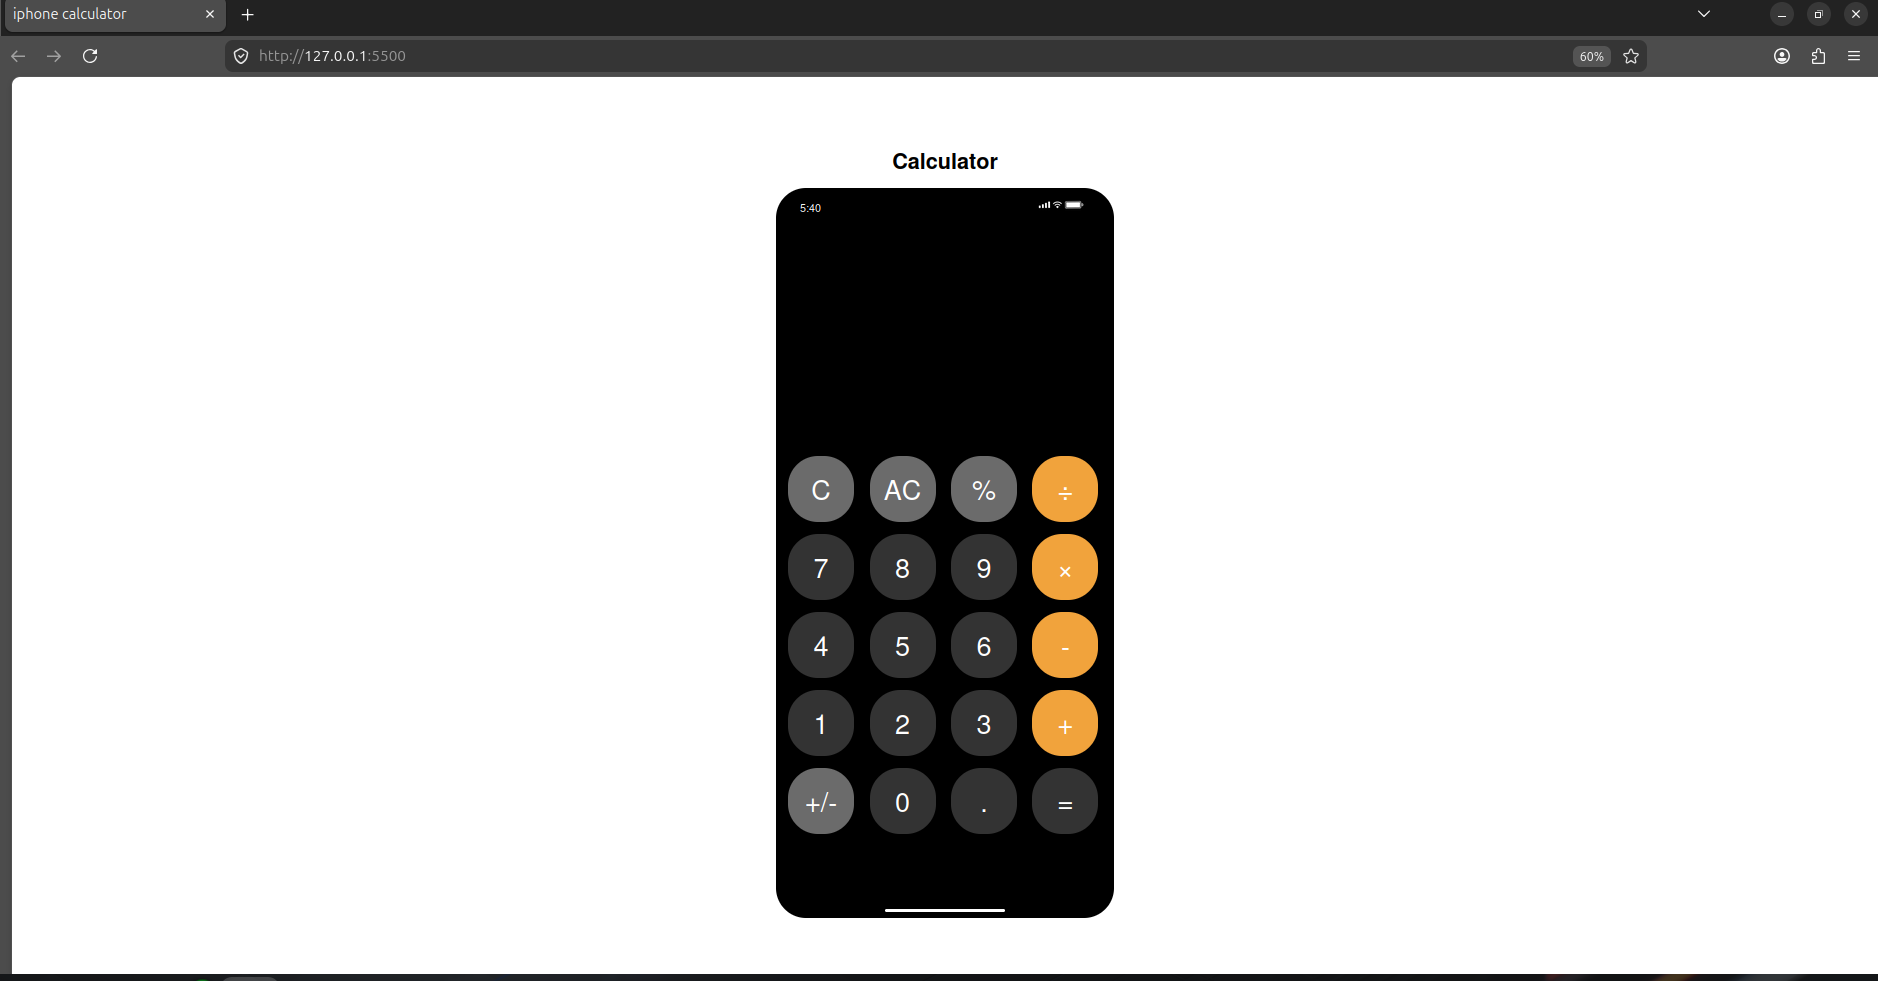
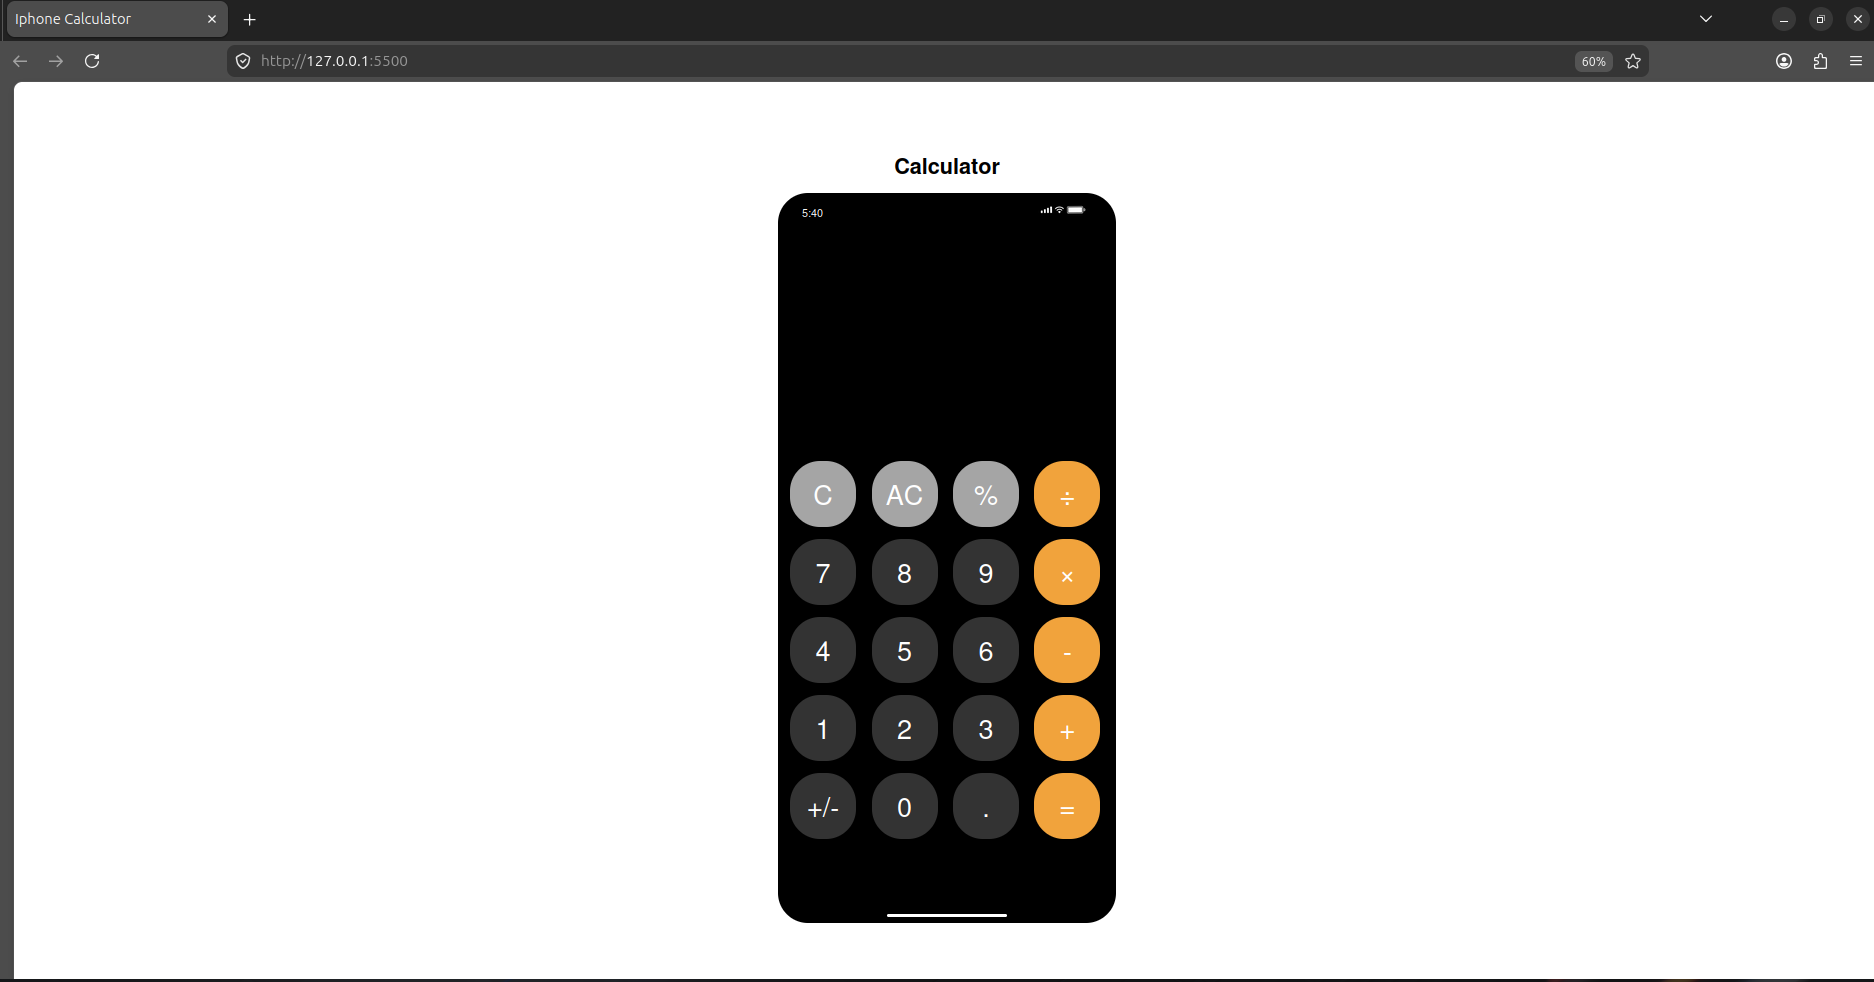
project continution

diff --git a/styles.css b/styles.css
@@ -104,6 +104,10 @@ body {
   background: #a5a5a5;
 }
 
+.button.toggle {
+  background: #333;
+}
+
 .button.operator {
   background: #f1a33c;
 }
